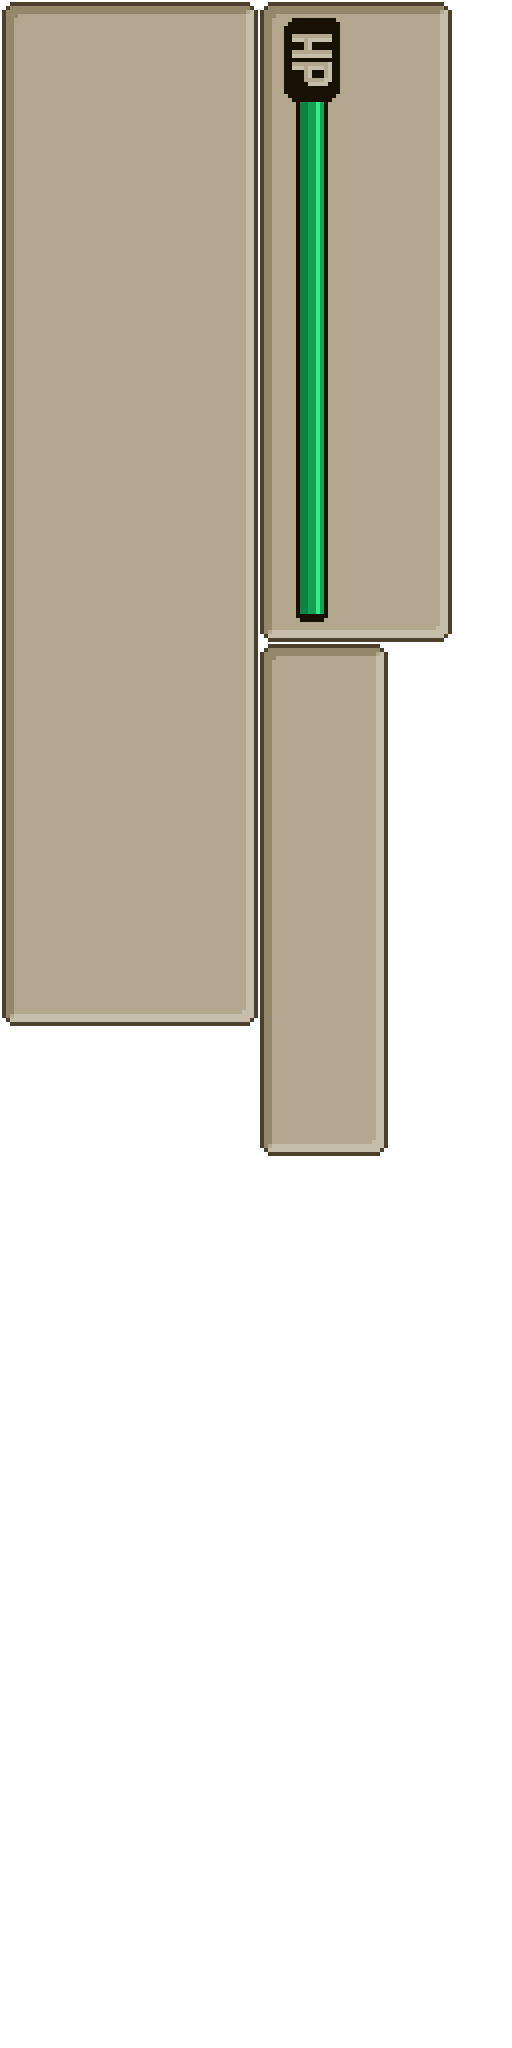
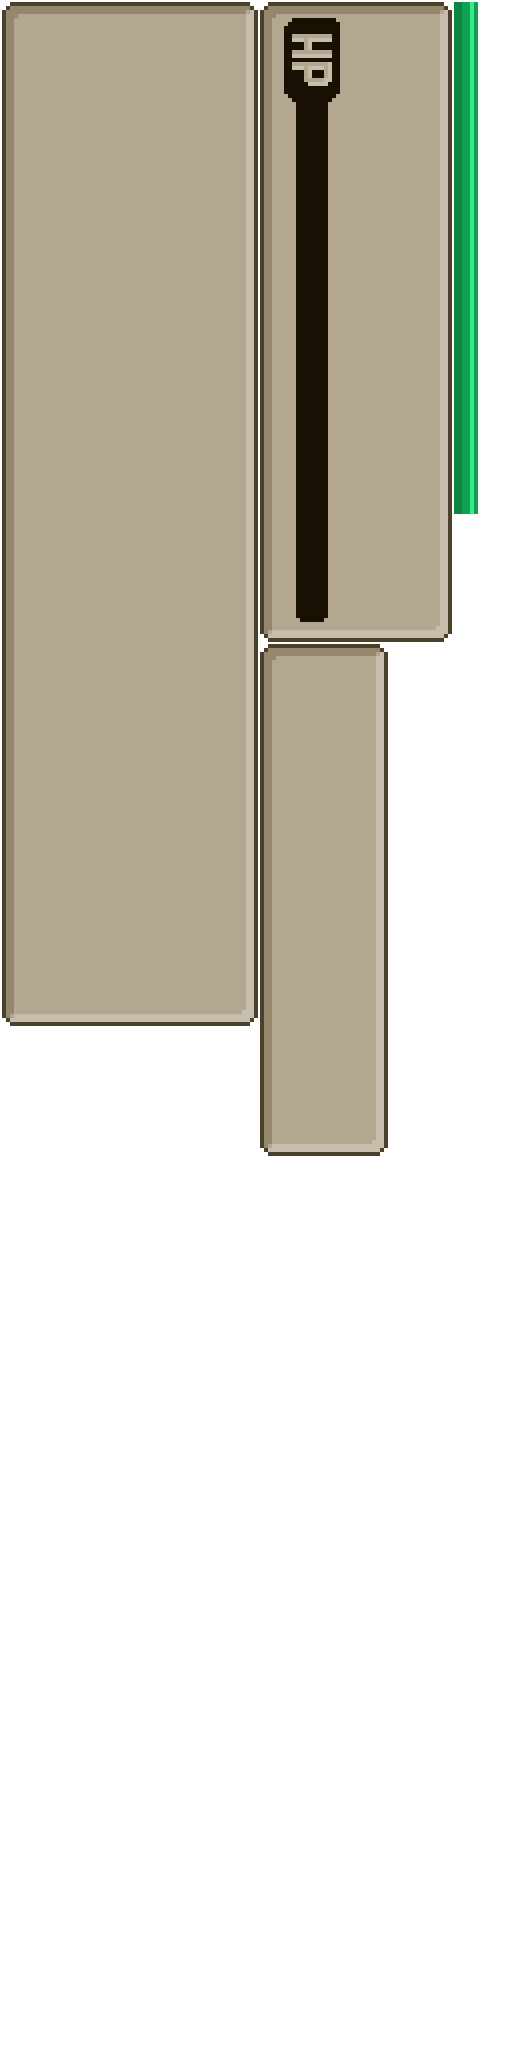
Final assets and health bar hooked up

Changed region(s): [[0.5625, 0.0312, 0.6562, 0.3125], [0.875, 0.0, 0.9375, 0.25]]

diff --git a/weatheraware/Classes/view/Battle Scene/CreatureStats.m b/weatheraware/Classes/view/Battle Scene/CreatureStats.m
@@ -19,10 +19,13 @@
 {
     if (self = [super init])
     {
-        _background = [CCSprite spriteWithSpriteFrame:[[AssetHandler sharedAssetHandler] getTextureWithName:@"UITest.png"]];
+        _background = [CCSprite spriteWithSpriteFrame:[[AssetHandler sharedAssetHandler] getTextureWithName:@"Container.png"]];
         [_background setPosition:ccp(_background.contentSize.width/2, 0)];
         [self addChild:_background];
-        //_healthBar = [CCSprite9Slice spriteWithSpriteFrame:[[AssetHandler sharedAssetHandler] getTextureWithName:@"healthBar.png"]];;
+        _healthBar = [CCSprite spriteWithSpriteFrame:[[AssetHandler sharedAssetHandler] getTextureWithName:@"HealthBar.png"]];
+        [_healthBar setPosition:ccp([_background position].x + 20 - [_healthBar contentSize].width/2, [_background position].y - 22)];
+        [_healthBar setAnchorPoint:ccp(0,0.5)];
+        [self addChild:_healthBar];
         [self setContentSize:[_background contentSize]];
         
         float labelOffset;
@@ -52,9 +55,9 @@
     return self;
 }
 
-- (void) reduceHealthBy:(int)percentage
+- (void) reduceHealthBy:(float)percentage
 {
-    
+    [_healthBar setScaleX:([_healthBar scaleX] - percentage)];
 }
 
 @end

diff --git a/weatheraware/Classes/model/Creature.m b/weatheraware/Classes/model/Creature.m
@@ -57,12 +57,12 @@
             break;
             
     }
-        
-    _maxHealth = [[data objectForKey:@"maxhealth"] integerValue];
-    _interest = [[data objectForKey:@"interest"] integerValue];
-    _fightEffect = [[data objectForKey:@"fighteffect"] integerValue];
-    _foodEffect = [[data objectForKey:@"foodeffect"] integerValue];
-    _baseCapRate = [[data objectForKey:@"caprate"] integerValue];
+    
+    _maxHealth = (int)[[data objectForKey:@"maxhealth"] integerValue];
+    _interest = (int)[[data objectForKey:@"interest"] integerValue];
+    _fightEffect = (int)[[data objectForKey:@"fighteffect"] integerValue];
+    _foodEffect = (int)[[data objectForKey:@"foodeffect"] integerValue];
+    _baseCapRate = (int)[[data objectForKey:@"caprate"] integerValue];
     _filename = [data objectForKey:@"filename"];
     _creatureName = [data objectForKey:@"creaturename"];
     

diff --git a/weatheraware/Classes/view/Battle Scene/BattleScene.m b/weatheraware/Classes/view/Battle Scene/BattleScene.m
@@ -10,6 +10,7 @@
 
 #import "AssetHandler.h"
 #import "Creature.h"
+#import "CreatureStats.h"
 #import "CreatureTracker.h"
 
 #import "CCActionInstant.h"
@@ -88,6 +89,8 @@
     {
         case eFight:
             [_creature fight];
+            float percentage = (float)[_creature fightEffect]/(float)[_creature maxHealth];
+            [[_ui frame] reduceHealthBy:percentage];
             if ([_creature interest] <= 0)
             {
                 [_ui printLabelWithString:@"The creature fled!"];

diff --git a/weatheraware/Classes/controller/MetricManager.m b/weatheraware/Classes/controller/MetricManager.m
@@ -117,7 +117,7 @@ static MetricManager* _sharedManager = nil;
 - (void) connection:(NSURLConnection *)connection didFailWithError:(NSError *)error
 {
     NSLog(@"\nError: %@\n", error);
-    NSLog(@"Error Code: %d\n", error.code);
+    NSLog(@"Error Code: %ld\n", (long)error.code);
     NSLog(@"Error Type: %@\n", error.domain);
     NSLog(@"Error Help: %@\n", error.localizedRecoveryOptions);
     NSLog(@"Error Reason: %@\n", error.localizedFailureReason);

diff --git a/weatheraware/Classes/view/Battle Scene/CreatureStats.h b/weatheraware/Classes/view/Battle Scene/CreatureStats.h
@@ -10,16 +10,15 @@
 
 #import "CCLabelBMFont.h"
 #import "CCSprite.h"
-#import "CCSprite9Slice.h"
 
 @interface CreatureStats : CCNode
 {
     CCSprite        *_background;
-    CCSprite9Slice  *_healthBar;
+    CCSprite        *_healthBar;
     CCLabelBMFont   *_nameLabel;
 }
 
 - (id) initWithCreatureName:(NSString*) name;
-- (void) reduceHealthBy:(int) percentage;
+- (void) reduceHealthBy:(float) percentage;
 
 @end

diff --git a/weatheraware/Classes/view/Main Scene/BackgroundLayer.m b/weatheraware/Classes/view/Main Scene/BackgroundLayer.m
@@ -38,8 +38,8 @@
     
     NSArray *map = [data objectForKey:@"map"];
     
-    [[Grid sharedGrid] setHeight:[map count]];
-    [[Grid sharedGrid] setWidth:[[map objectAtIndex:0] count]];
+    [[Grid sharedGrid] setHeight:(int)[map count]];
+    [[Grid sharedGrid] setWidth:(int)[[map objectAtIndex:0] count]];
     
     for (int i = 0 ; i < [map count] ; i++)
     {

diff --git a/weatheraware/Classes/model/Creature.h b/weatheraware/Classes/model/Creature.h
@@ -50,5 +50,7 @@ typedef enum
 @property (readonly) Object *tile;
 @property (readonly) NSString *creatureName;
 @property (readonly) int interest;
+@property (readonly) int maxHealth;
+@property (readonly) int fightEffect;
 
 @end

diff --git a/weatheraware/Classes/model/Actor.m b/weatheraware/Classes/model/Actor.m
@@ -21,7 +21,7 @@ static const int kEncounterChance = 25;
 {
     if (self = [super init])
     {
-        srand(time(NULL));
+        srand((int)time(NULL));
      
         _delegate = delegate;
         
